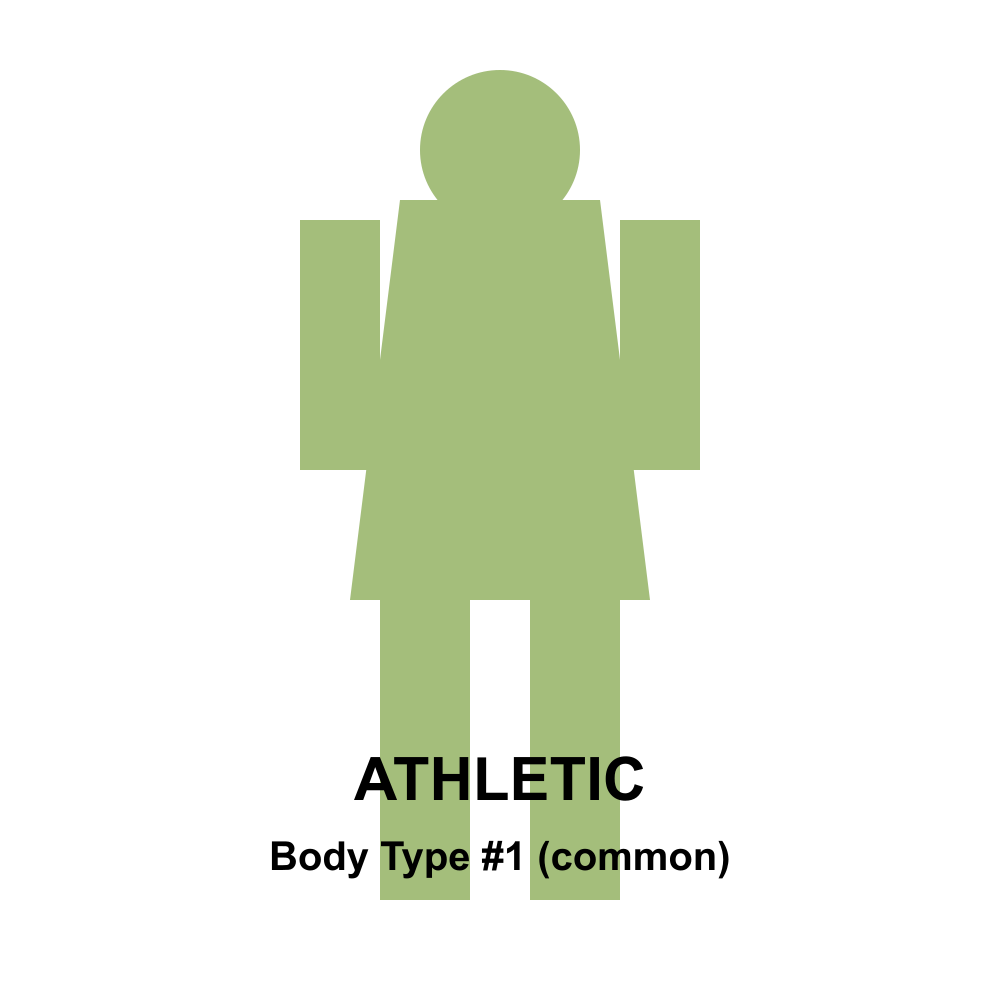
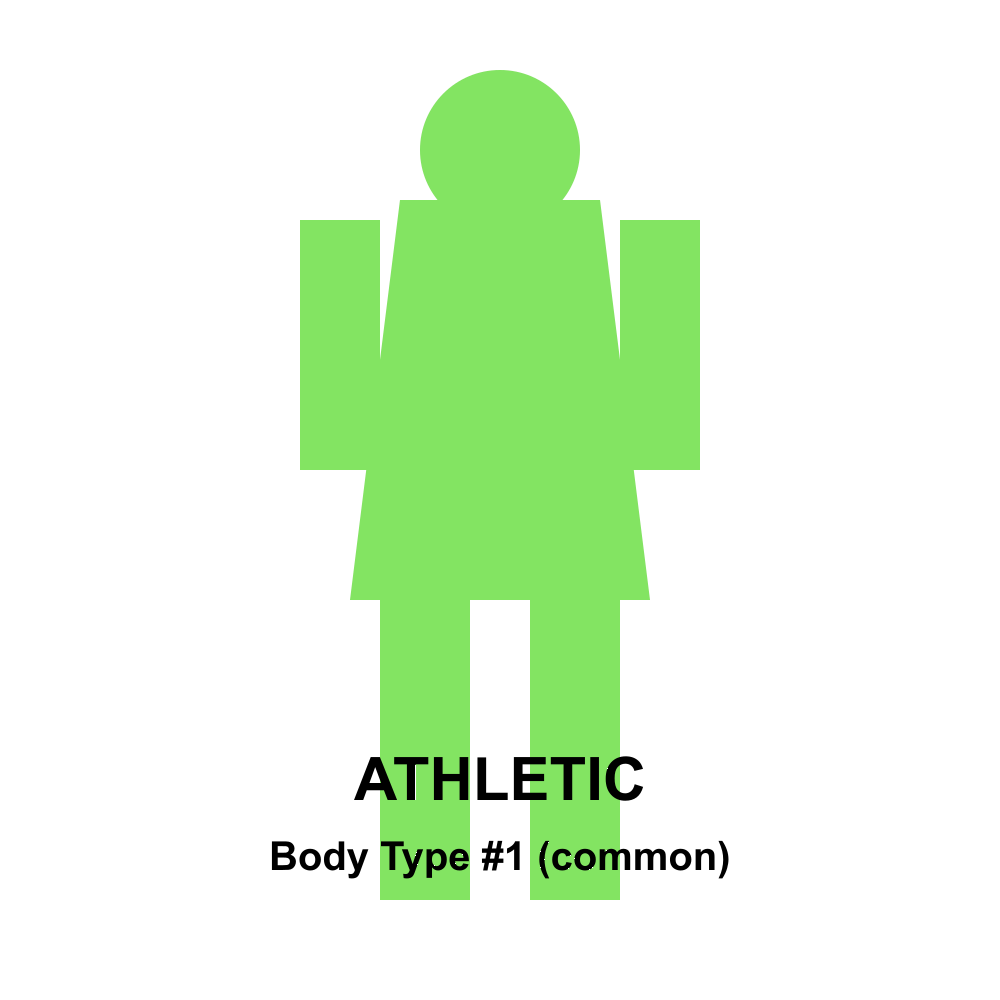
Aplicados cambios agresivos de transparencia en las imágenes del token 1

Changed region(s): [[0.279, 0.062, 0.713, 0.899]]

diff --git a/force-transparency.js b/force-transparency.js
@@ -1,0 +1,127 @@
+const fs = require('fs');
+const path = require('path');
+const { createCanvas, loadImage } = require('canvas');
+
+// Imágenes a procesar para el token 1
+const imagesToProcess = [
+  { category: 'BACKGROUND', id: '1', color: '#0000FF' }, // Fondo azul
+  { category: 'BASE', id: '1', transparent: true }, // Cuerpo atlético
+  { category: 'MOUTH', id: '1', transparent: true } // Boca sonriente
+];
+
+// Función para hacer transparente una imagen de forma más agresiva
+async function makeTransparentForced(imagePath, options) {
+  console.log(`Procesando ${imagePath}...`);
+
+  try {
+    // Cargar la imagen original
+    const image = await loadImage(imagePath);
+    
+    // Crear un canvas del mismo tamaño
+    const canvas = createCanvas(image.width, image.height);
+    const ctx = canvas.getContext('2d');
+    
+    // Si es una imagen de fondo (BACKGROUND), hacemos un gradiente con transparencia muy notoria
+    if (options.color) {
+      // Limpiamos el canvas
+      ctx.clearRect(0, 0, canvas.width, canvas.height);
+      
+      // Dibujamos un gradiente de fondo con mucha transparencia
+      const gradient = ctx.createRadialGradient(
+        canvas.width/2, canvas.height/2, 0,
+        canvas.width/2, canvas.height/2, canvas.width/2
+      );
+      
+      // Convertimos color a valores RGB
+      let r = 0, g = 0, b = 0;
+      if (options.color === '#0000FF') { // Azul
+        r = 0; g = 0; b = 255;
+      } else if (options.color === '#00FF00') { // Verde
+        r = 0; g = 255; b = 0;
+      } else if (options.color === '#FF0000') { // Rojo
+        r = 255; g = 0; b = 0;
+      }
+      
+      gradient.addColorStop(0, `rgba(${r},${g},${b},0.5)`); // Más transparente
+      gradient.addColorStop(1, `rgba(${r},${g},${b},0.1)`);
+      
+      // Dibujar un patrón para hacer la transparencia más evidente
+      ctx.fillStyle = gradient;
+      ctx.fillRect(0, 0, canvas.width, canvas.height);
+      
+      // Añadir un patrón de líneas para hacer evidente la transparencia
+      ctx.strokeStyle = `rgba(${r},${g},${b},0.8)`;
+      ctx.lineWidth = 2;
+      for (let i = 0; i < canvas.width; i += 50) {
+        ctx.beginPath();
+        ctx.moveTo(i, 0);
+        ctx.lineTo(i, canvas.height);
+        ctx.stroke();
+      }
+    } 
+    // Para otras imágenes (MOUTH, BASE), hacemos una versión muy transparente
+    else if (options.transparent) {
+      // Primero dibujamos la imagen original
+      ctx.drawImage(image, 0, 0);
+      
+      // Obtenemos los datos de la imagen
+      const imageData = ctx.getImageData(0, 0, canvas.width, canvas.height);
+      const data = imageData.data;
+      
+      // Hacer transparente cualquier pixel que no sea completamente negro o de color
+      for (let i = 0; i < data.length; i += 4) {
+        // Si no es negro puro o un color saturado (es gris o blanco)
+        if ((data[i] > 50 && data[i+1] > 50 && data[i+2] > 50) && 
+            // Y si es un color con poca saturación
+            Math.max(data[i], data[i+1], data[i+2]) - Math.min(data[i], data[i+1], data[i+2]) < 30) {
+          data[i+3] = 0; // Canal alfa a 0 (totalmente transparente)
+        }
+        // Aplicamos un tinte de color para verificar que es la nueva versión
+        else if (data[i+3] > 0) {
+          // Añadir un tinte azul para la boca
+          if (options.category === 'MOUTH') {
+            data[i] = Math.min(255, data[i] * 0.8);
+            data[i+1] = Math.min(255, data[i+1] * 0.8);
+            data[i+2] = Math.min(255, data[i+2] * 1.2); // Tinte azul
+          }
+          // Añadir un tinte verde para el cuerpo
+          else if (options.category === 'BASE') {
+            data[i] = Math.min(255, data[i] * 0.8);
+            data[i+1] = Math.min(255, data[i+1] * 1.2); // Tinte verde
+            data[i+2] = Math.min(255, data[i+2] * 0.8);
+          }
+        }
+      }
+      
+      // Aplicar los cambios
+      ctx.putImageData(imageData, 0, 0);
+    }
+    
+    // Guardar la nueva imagen (sin backup esta vez)
+    const buffer = canvas.toBuffer('image/png');
+    fs.writeFileSync(imagePath, buffer);
+    
+    console.log(`Imagen guardada: ${imagePath}`);
+    return true;
+  } catch (error) {
+    console.error(`Error procesando ${imagePath}:`, error);
+    return false;
+  }
+}
+
+// Procesar todas las imágenes
+async function processAllImages() {
+  for (const img of imagesToProcess) {
+    const imagePath = path.join(process.cwd(), 'public', 'traits', img.category, `${img.id}.png`);
+    
+    if (fs.existsSync(imagePath)) {
+      await makeTransparentForced(imagePath, {...img, category: img.category});
+    } else {
+      console.log(`Imagen no encontrada: ${imagePath}`);
+    }
+  }
+  console.log('Procesamiento de imágenes completado.');
+}
+
+// Ejecutar el script
+processAllImages(); 
